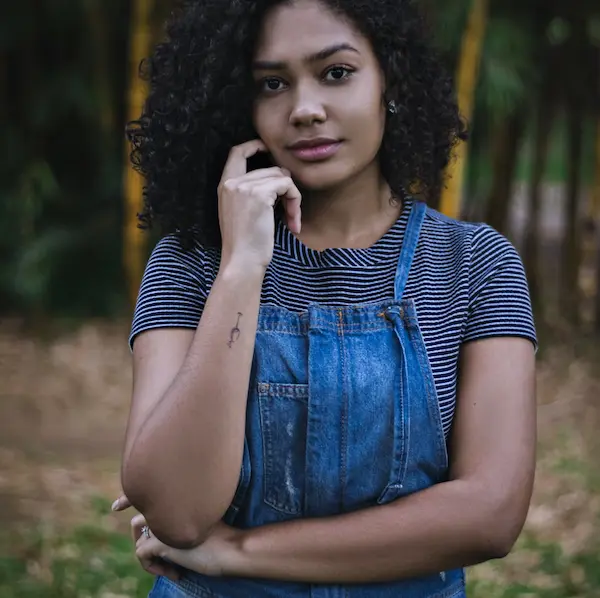
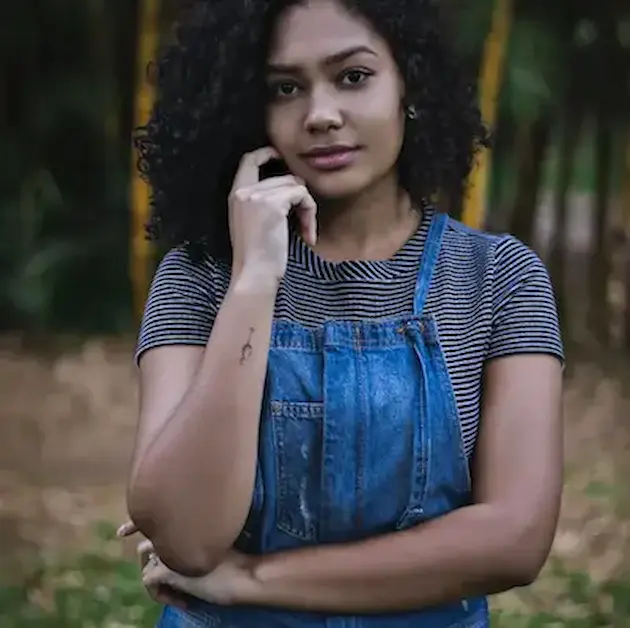
fix url img about sitemap, taille imge about opengraph, url about tablet

diff --git a/index.html b/index.html
@@ -24,7 +24,7 @@
 	<meta name="robots" content="index, follow">
 	<meta name="language" content="fr">
 
-	<!--balise google pour le SEO -->
+	<!--balise google pour le suivi par la search console,  SEO -->
 	<meta name="google-site-verification" content="80Y6swqlyah_02RVu7GFIOKjgbGVe7xdl2tKsIEuWT4" />
 
 	<!--balise canonical-->
@@ -91,45 +91,39 @@
 		}
 		</script>
 
-<!--liens google font (preconnect pour le prechargement DNS) remplacer par preload-->
-<link rel="preconnect" href="https://fonts.googleapis.com" as="font" crossorigin>
+<!--liens google font (tester ce qui est le mieux entre preload et preconnect pour le prechargement DNS) remplacer par preload ou tester dns-prefetch-->
+<link rel="preconnect" href="https://fonts.googleapis.com">
 <link rel="preconnect" href="https://fonts.gstatic.com" as="font" crossorigin>
 <!--chargement optimisé des polices (media print pour le chargement des polices sur les appareils mobiles)-->
 <link href="https://fonts.googleapis.com/css2?family=Inter&family=Spectral:ital,wght@0,400;1,300;1,400;1,800&display=swap" 
 rel="stylesheet"
-media="print" 
+media="screen" 
 onload="this.media='all'">
 <!--Preload des ressources critiques du carousel, ici l'image de l'homme d'affaire qui traverse la rue dans le carousel-->
     <link rel="preload"
       as="image"
       href="./assets/images/optimized/carousel/desktop/webp/Photo-homme-d-affaire.webp"
       type="image/webp"
-      media="(min-width: 1024px)">
+      >
 
-	<!--JQuery (nécessaire pour Bootstrap) (ajout de defer pour eviter le BLS qui est un CLS c'est à dire un chargement tardif, donc defer permet au navigateur de charger JQuery avant de charger Bootstrap car Bootstrap utilise JQuery et donc JQuery doit etre chargé avant) -->
+	<!--JQuery (nécessaire pour Bootstrap) (ajout de defer pour eviter le BLS qui est un CLS c'est à dire un chargement tardif,Bootstrap utilise JQuery et donc JQuery doit etre chargé avant) -->
 	<script src="https://code.jquery.com/jquery-3.4.1.min.js" 
 	integrity="sha256-CSXorXvZcTkaix6Yvo6HppcZGetbYMGWSFlBw8HfCJo=" 
 	crossorigin="anonymous"
 	defer></script>
 
- <!-- Bootstrap Bundle (ajout de defer afin que le navigateur charge les ressources critiques avant de charger Bootstrap)-->
+ <!-- Bootstrap Bundle-->
  <script src="./assets/bootstrap/bootstrap.bundle.js" defer></script>
 
  <!-- CSS non-critique chargé de manière asynchrone afin que le navigateur charge les ressources critiques avant de charger le CSS, ce CSS est chargé avec media print afin de pouvoir être affiché sur les appareils mobiles et sur les appareils avec un navigateur non compatibles ce qui rend la page plus responsive -->
- <link rel="stylesheet" href="./assets/bootstrap/bootstrap.css" media="print" onload="this.media='all'">
- <link rel="stylesheet" href="./assets/style.css" media="print" onload="this.media='all'">
-
+ <link rel="stylesheet" href="./assets/bootstrap/bootstrap.css" media="screen" onload="this.media='all'">
+ <link rel="stylesheet" href="./assets/style.css" media="screen" onload="this.media='all'">
 
  <!-- Fallback pour le CSS si JavaScript est désactivé, afin de pouvoir afficher la page sur les appareils sans JavaScript, ce qui est utile sur les appareils avec un navigateur non compatibles et donc améliore la performance -->
  <noscript>
 	<link rel="stylesheet" href="./assets/bootstrap/bootstrap.css">
 	<link rel="stylesheet" href="./assets/style.css">
-</noscript>
-
-	<!--bootstrap css-->
-	<!-- <script src="https://code.jquery.com/jquery-3.4.1.min.js" integrity="sha256-CSXorXvZcTkaix6Yvo6HppcZGetbYMGWSFlBw8HfCJo=" crossorigin="anonymous"></script> -->
-	
-	
+</noscript>	
 	<!--ajout de defer sur les script ce qui permet donc que le dom soit chargé avent les scrpt, pour aléliorer la performance-->
 	<script src="./assets/maugallery.js" defer></script>
 	<script src="./assets/scripts.js" defer></script>
@@ -199,10 +193,10 @@ onload="this.media='all'">
 			<button 
 			type="button" 
 			data-bs-target="#carouselExampleIndicators"
-			 data-bs-slide-to="2" 
-			 aria-label="Diapositive 3"
-			 role="tab"
-			 aria-controls="carousel-tem-3"
+			data-bs-slide-to="2" 
+			aria-label="Diapositive 3"
+			role="tab"
+			aria-controls="carousel-tem-3"
 			 >
 			</button>
 		</div>
@@ -360,7 +354,7 @@ onload="this.media='all'">
 
 			<!-- Tablet -->
 			<source media="(min-width: 768px)"
-			srcset="./assets/images/optimized/about-portrait-Nina-Carducci/tablet/about-portrait-Nina-Carducci-photographe (1).webp"
+			srcset="./assets/images/optimized/about-portrait-Nina-Carducci/tablet/about-portrait-Nina-Carducci-photographe.webp"
 			type="image/webp"
 			alt="photo, portrait de la photographe Nina Carducci"
 			>
@@ -467,10 +461,10 @@ onload="this.media='all'">
 			class="gallery-item" 
 			src="./assets/images/optimized/gallery/thumbnail/desktop/webp/portraits/Photographie-portrait-jeune-femme-nino-van-prattenburg-.webp" 
 			data-modal-src="./assets/images/optimized/gallery/modal/desktop/webp/portraits/Photographie-portrait-jeune-femme-nino-van-prattenburg-.webp"
-			 alt="portrait jeune femme"
-			 loading="lazy"
-			 width="440"
-			 height="440"
+			alt="portrait jeune femme"
+			loading="lazy"
+			width="440"
+			height="440"
 			 />
 
 			<!--image concert-->

diff --git a/assets/style.css b/assets/style.css
@@ -10,7 +10,9 @@
 	src: url('path/to/spectral.woff2') format('woff2');
 	font-display: swap;
   } */
-  
+:root {
+	font-family: 'Inter', sans-serif;/*spécifie a priorty font family*/
+}
 body {
 	max-width: 1920px;
 	margin: auto;
@@ -72,8 +74,8 @@ img {
 }
 .carousel-item {
 	contain: layout style paint;  /*Vérifier si besoin de le mettre et dans le container et dans le carousel-item la logique serait le conatiner revoir sur mdn, et trouver pourquoi l'image des mariés se charge en version */
-	height: 100%; /*prend toute la hauteur du carousel*/
-	min-height: 100vh; /*hauteur minimale pour éviter le CLS*/
+	height: auto; /*prend toute la hauteur du carousel*/
+	/*min-height: 100vh; hauteur minimale pour éviter le CLS*/
 }
 .carousel-item img {
     object-fit: cover;
@@ -195,7 +197,7 @@ img {
 }
 /**optimisation gallery*************/
 #gallery {
-		/* min-height: 100vh;  */
+		min-height: 100vh; 
 }
 
 /* .gallery-item {
@@ -207,7 +209,7 @@ img {
 /* .gallery-item img {
     object-fit: cover;
     width: 100%;
-    height: 100%;
+    height: auto;
     transform: translateZ(0); acceleration matérielle (cf: https://www.alsacreations.com/astuce/lire/1565-acceleration-materielle-au-service-de-vos-animations-css.html)
 } */
 /***************************/

diff --git a/assets/maugallery.js b/assets/maugallery.js
@@ -283,9 +283,6 @@ prevImage(lightboxId) {
           );
 
           const $modal = $(`#${modalId}`);
-
-  // Gestion de l'ouverture de la modal (attache les événements directements a la modale)
-  // const $modal = $(`#${lightboxId ? lightboxId : "galleryLightbox"}`);
     
   //gestion des evenements pour la navigation avec les flèches
   $modal.find(".mg-prev").on("click",  () => {
